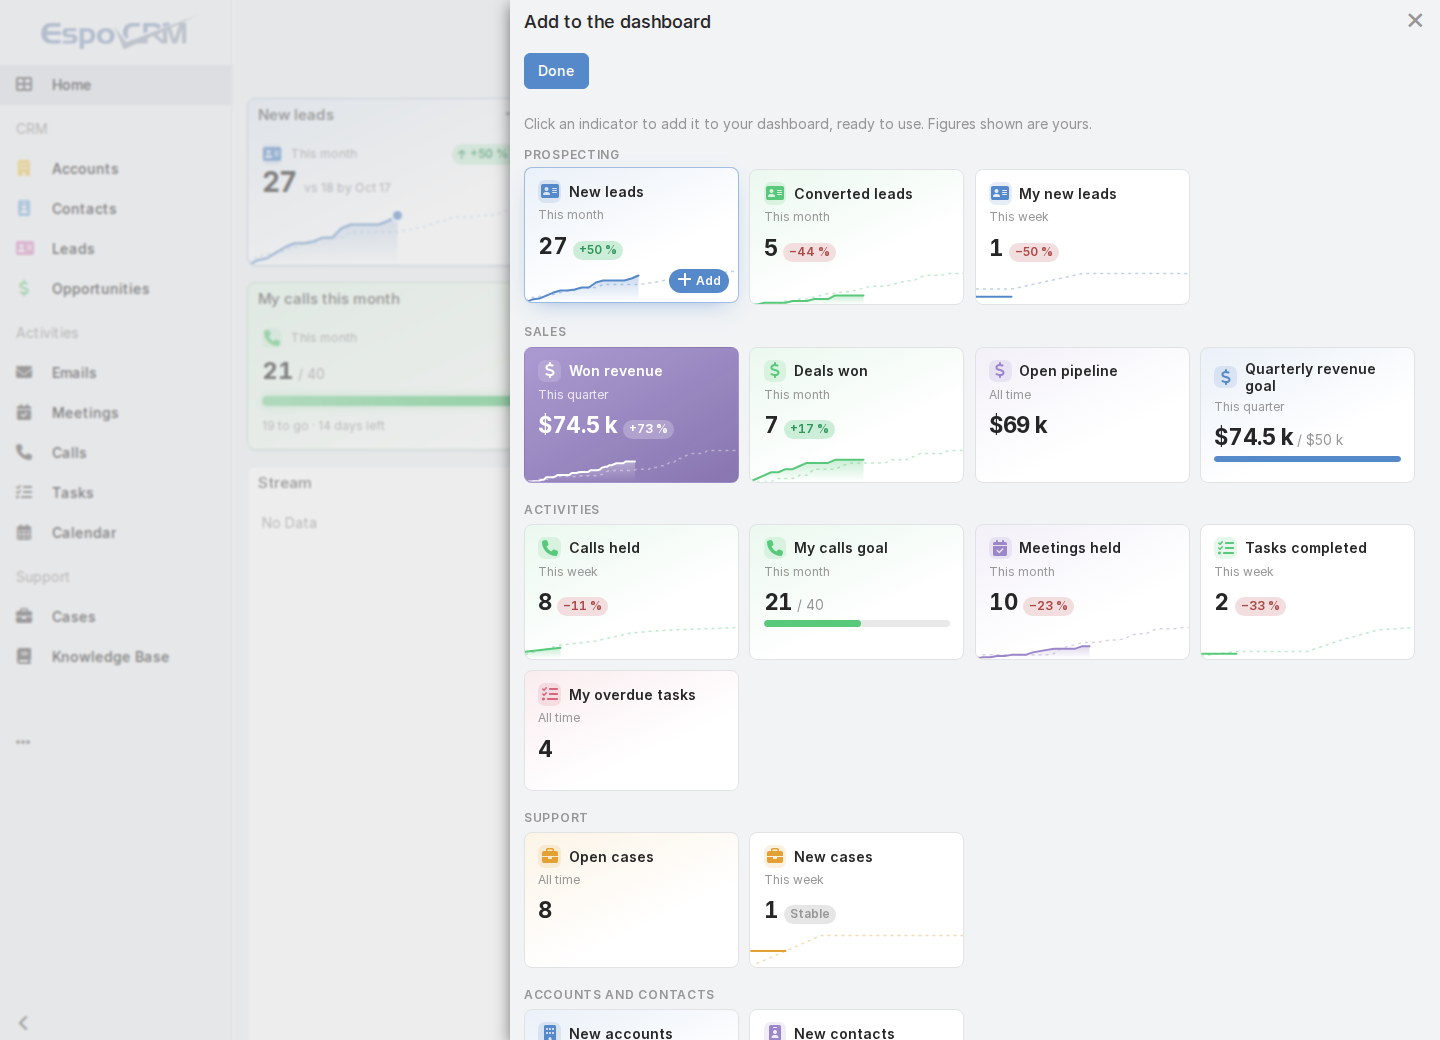
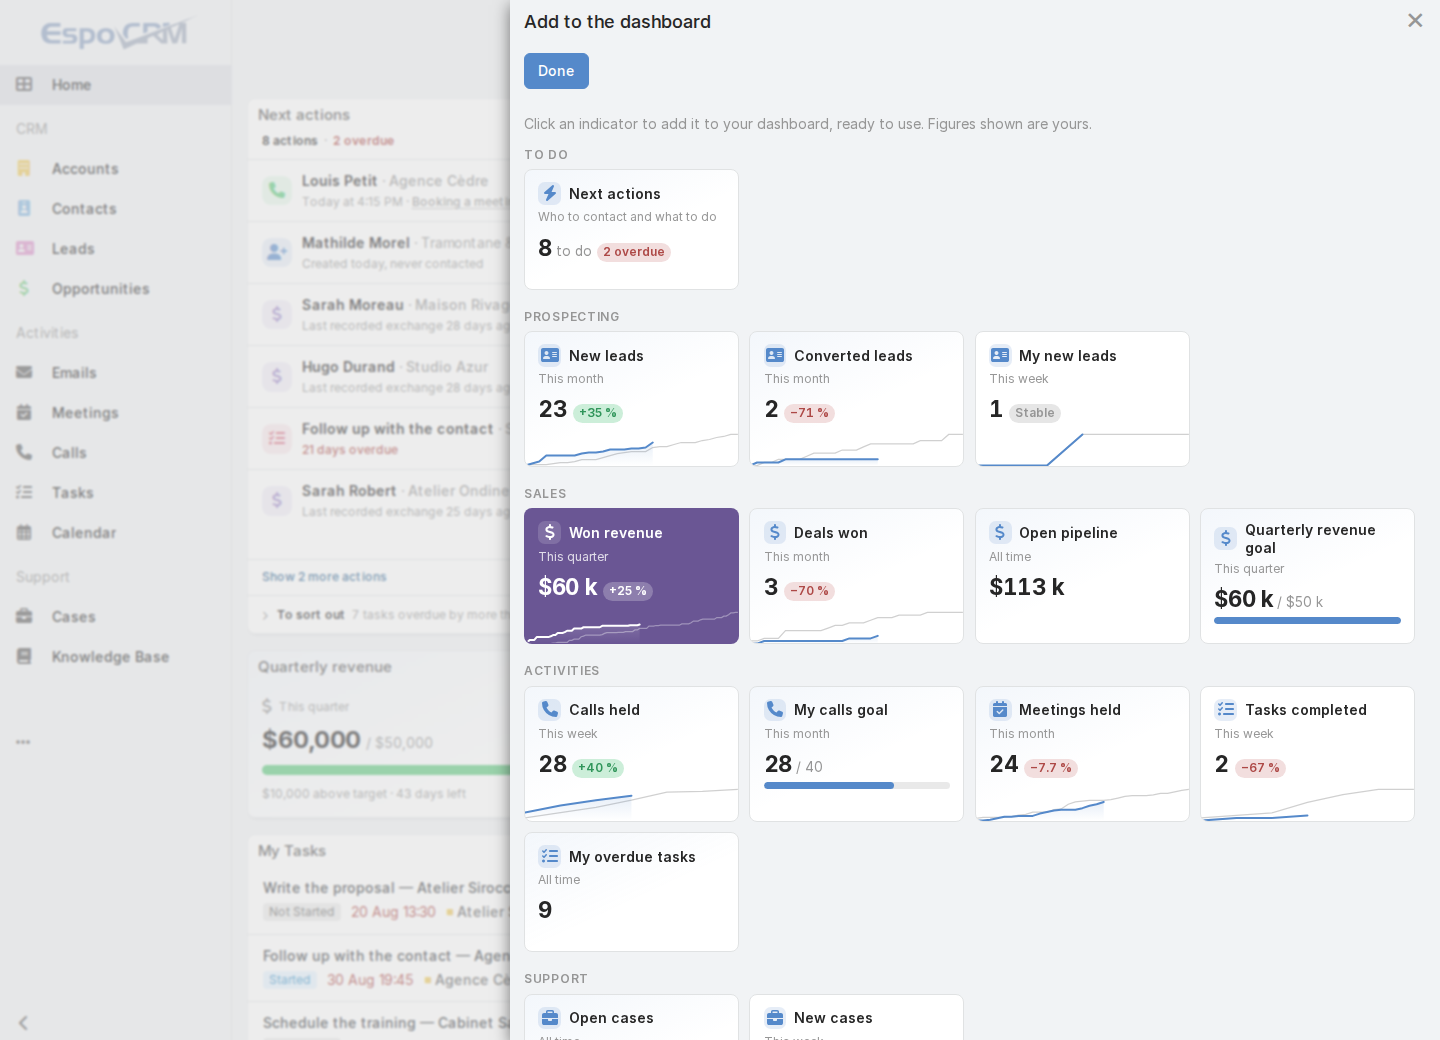
Live Dashlets 1.2.0: a calmer, clearer design
From a design review of the dashlets:

- Goal bars take the status color: green when on track or reached, amber
  when behind.
- Solid tiles cap the lightness of their background, so white text stays
  readable in dark themes.
- The previous period is a thin grey line instead of a dashed one.
- Ready-made indicators and the template share one accent; green, amber
  and red are left to trends and statuses.
- No pulsing dot, a lighter tint, the theme's border, flat solid tiles,
  a lighter area under the curve, the icon without its chip.
- The hover tooltip sits beside the cursor in the curve's area.
- Proportional digits on big figures.

README screenshots and text updated.

diff --git a/src/files/client/custom/modules/live-dashlets/css/live-dashlets.css b/src/files/client/custom/modules/live-dashlets/css/live-dashlets.css
@@ -20,19 +20,18 @@
 /* `body` + three classes: above the themes' `body .panel-default.headered` background. */
 body .dashlet.live-dashlet-panel.live-dashlet-style-soft {
     background:
-        linear-gradient(155deg, color-mix(in srgb, var(--ld-accent) 16%, transparent) 0%, transparent 70%),
+        linear-gradient(155deg, color-mix(in srgb, var(--ld-accent) 7%, transparent) 0%, transparent 55%),
         var(--panel-bg, #fff);
-    border-color: color-mix(in srgb, var(--ld-accent) 30%, var(--default-border-color, #e5e5e5));
 }
 
 body .dashlet.live-dashlet-panel.live-dashlet-style-minimal {
     background: var(--panel-bg, #fff);
 }
 
+/* Dark themes lighten their accents: the lightness is capped so that white text stays readable. */
 body .dashlet.live-dashlet-panel.live-dashlet-style-solid {
-    background:
-        linear-gradient(150deg, rgba(255, 255, 255, .16) 0%, rgba(0, 0, 0, .12) 100%),
-        var(--ld-accent);
+    background: var(--ld-accent);
+    background: oklch(from var(--ld-accent) min(l, .5) c h);
     border-color: transparent;
 }
 
@@ -149,8 +148,15 @@ body .dashlet.live-dashlet-style-solid > .panel-heading .btn.menu-button .fas {
 .live-dashlet-head {
     display: flex;
     align-items: center;
-    gap: .6em;
+    gap: .5em;
     min-width: 0;
+}
+
+/* The title already names the indicator: the icon stays discreet. */
+.live-dashlet-head .live-dashlet-icon {
+    width: auto;
+    color: var(--text-muted-color);
+    background: none;
 }
 
 .live-dashlet-icon {
@@ -185,7 +191,6 @@ body .dashlet.live-dashlet-style-solid > .panel-heading .btn.menu-button .fas {
     font-weight: 700;
     line-height: 1.05;
     letter-spacing: -.02em;
-    font-variant-numeric: tabular-nums;
     white-space: nowrap;
     overflow: hidden;
     text-overflow: ellipsis;
@@ -230,7 +235,7 @@ body .dashlet.live-dashlet-style-solid > .panel-heading .btn.menu-button .fas {
     }
 }
 
-/* Sparkline: cumulative curve of the period, previous period dashed. */
+/* Sparkline: cumulative curve of the period, previous period as a thin grey line. */
 
 .live-dashlet-spark {
     position: relative;
@@ -266,10 +271,9 @@ body .dashlet.live-dashlet-style-solid > .panel-heading .btn.menu-button .fas {
 
 .live-dashlet-spark-previous {
     fill: none;
-    stroke: currentColor;
-    stroke-opacity: .38;
-    stroke-width: 1.5;
-    stroke-dasharray: 3 4;
+    stroke: var(--text-muted-color);
+    stroke-opacity: .45;
+    stroke-width: 1.25;
 }
 
 .live-dashlet-spark-dot {
@@ -280,9 +284,7 @@ body .dashlet.live-dashlet-style-solid > .panel-heading .btn.menu-button .fas {
     border-radius: 50%;
     background-color: currentColor;
     box-shadow: 0 0 0 2px var(--panel-bg, #fff);
-    animation:
-        live-dashlet-fade-in .3s ease 1s both,
-        live-dashlet-pulse 2.4s ease-out 1.3s infinite;
+    animation: live-dashlet-fade-in .3s ease 1s both;
 }
 
 .live-dashlet-style-solid .live-dashlet-spark-dot {
@@ -301,11 +303,6 @@ body .dashlet.live-dashlet-style-solid > .panel-heading .btn.menu-button .fas {
 @keyframes live-dashlet-fade-in {
     from { opacity: 0; transform: scale(.4); }
     to { opacity: 1; transform: scale(1); }
-}
-
-@keyframes live-dashlet-pulse {
-    0% { box-shadow: 0 0 0 2px var(--panel-bg, #fff), 0 0 0 2px color-mix(in srgb, currentColor 45%, transparent); }
-    70%, 100% { box-shadow: 0 0 0 2px var(--panel-bg, #fff), 0 0 0 12px transparent; }
 }
 
 /* Clickable tile: opens the records behind the figure. */
@@ -389,12 +386,13 @@ body .dashlet.live-dashlet-style-solid > .panel-heading .btn.menu-button .fas {
 
 .live-dashlet-spark-hover-dot-previous {
     background-color: var(--panel-bg, #fff);
-    border: 1.5px solid currentColor;
+    border: 1.5px solid var(--text-muted-color);
 }
 
-/* Always dark, so it reads the same on every style and theme. */
+/* Always dark, so it reads the same on every style and theme. Beside the guide, at the top of
+   the curve's area: the figures above stay visible. */
 .live-dashlet-spark-tip {
-    bottom: calc(100% + .25em);
+    top: 4px;
     z-index: 3;
     display: flex;
     flex-direction: column;
@@ -408,15 +406,11 @@ body .dashlet.live-dashlet-style-solid > .panel-heading .btn.menu-button .fas {
     font-variant-numeric: tabular-nums;
     line-height: 1.35;
     white-space: nowrap;
-    transform: translateX(-50%);
+    transform: translateX(10px);
 }
 
-.live-dashlet-spark-tip[data-align="start"] {
-    transform: translateX(-.75em);
-}
-
-.live-dashlet-spark-tip[data-align="end"] {
-    transform: translateX(calc(-100% + .75em));
+.live-dashlet-spark-tip[data-side="left"] {
+    transform: translateX(calc(-100% - 10px));
 }
 
 .live-dashlet-spark-tip-current,
@@ -442,8 +436,8 @@ body .dashlet.live-dashlet-style-solid > .panel-heading .btn.menu-button .fas {
 }
 
 .live-dashlet-spark-tip-previous::before {
-    border-top-style: dashed;
     border-top-width: 1.5px;
+    opacity: .7;
 }
 
 /* Goal. */
@@ -514,10 +508,33 @@ body .dashlet.live-dashlet-style-solid > .panel-heading .btn.menu-button .fas {
     max-width: 100%;
     overflow: hidden;
     border-radius: inherit;
-    background-color: var(--ld-accent-on, var(--ld-accent));
-    background-image: linear-gradient(90deg, rgba(255, 255, 255, .28), rgba(255, 255, 255, 0) 70%);
-    box-shadow: 0 0 10px color-mix(in srgb, var(--ld-accent-on, var(--ld-accent)) 40%, transparent);
+    background-color: var(--ld-goal, var(--ld-accent-on, var(--ld-accent)));
     transition: width .9s cubic-bezier(.22, 1, .36, 1);
+}
+
+/* The bar takes the status color, the track a light step of it. */
+.live-dashlet-goal-ahead,
+.live-dashlet-goal-reached {
+    --ld-goal: var(--brand-success);
+}
+
+.live-dashlet-goal-behind {
+    --ld-goal: var(--brand-warning);
+}
+
+.live-dashlet-goal-ahead .live-dashlet-goal-bar,
+.live-dashlet-goal-reached .live-dashlet-goal-bar,
+.live-dashlet-goal-behind .live-dashlet-goal-bar {
+    background-color: color-mix(in srgb, var(--ld-goal) 16%, transparent);
+}
+
+/* On a solid tile, the status is in its label: the bar stays white. */
+.live-dashlet-style-solid .live-dashlet-goal {
+    --ld-goal: #fff;
+}
+
+.live-dashlet-style-solid .live-dashlet-goal .live-dashlet-goal-bar {
+    background-color: rgba(255, 255, 255, .25);
 }
 
 /* A light sweep on a reached goal. */
@@ -691,8 +708,8 @@ body .dashlet.live-dashlet-style-solid > .panel-heading .btn.menu-button .fas {
 .live-gallery .live-gallery-card.live-dashlet-style-soft {
     background-image: linear-gradient(
         155deg,
-        color-mix(in srgb, var(--ld-accent) 12%, transparent) 0%,
-        transparent 65%
+        color-mix(in srgb, var(--ld-accent) 7%, transparent) 0%,
+        transparent 55%
     );
 }
 
@@ -706,7 +723,7 @@ body .dashlet.live-dashlet-style-solid > .panel-heading .btn.menu-button .fas {
     --ld-accent-on: #fff;
     color: #fff;
     background-color: var(--ld-accent);
-    background-image: linear-gradient(150deg, rgba(255, 255, 255, .16) 0%, rgba(0, 0, 0, .12) 100%);
+    background-color: oklch(from var(--ld-accent) min(l, .5) c h);
     border-color: transparent;
 }
 

diff --git a/src/files/client/custom/modules/live-dashlets/src/helpers/sparkline.js b/src/files/client/custom/modules/live-dashlets/src/helpers/sparkline.js
@@ -61,7 +61,8 @@ export function createSparkline(series, options = {}) {
     gradient.setAttribute('x2', '0');
     gradient.setAttribute('y2', '1');
 
-    [['0', '.32'], ['1', '0']].forEach(([offset, opacity]) => {
+    // A wash, not a block.
+    [['0', '.14'], ['1', '0']].forEach(([offset, opacity]) => {
         const stop = document.createElementNS(SVG_NS, 'stop');
 
         stop.setAttribute('offset', offset);
@@ -176,9 +177,11 @@ function addHover(container, {length, current, previous, x, y, describe}) {
             return line;
         }));
 
-        // Kept inside the tile: anchored left, centred or right depending on the side.
-        tip.dataset.align = left < 25 ? 'start' : (left > 75 ? 'end' : 'center');
+        // Beside the guide, on the side with more room, at the top of the curve's area; raised
+        // only when that area is shorter than the tooltip, so that it stays inside the tile.
+        tip.dataset.side = left > 55 ? 'left' : 'right';
         tip.style.left = left.toFixed(2) + '%';
+        tip.style.top = Math.min(4, container.clientHeight - tip.offsetHeight - 2) + 'px';
 
         container.classList.add('live-dashlet-spark-hovered');
     };

diff --git a/dev/demo-dashboard.php b/dev/demo-dashboard.php
@@ -259,7 +259,7 @@ $averageDeal = [
     'title' => $t('Average deal', 'Affaire moyenne'),
     'metric' => 'avg',
     'valueField' => 'amount',
-    'accentColor' => 'info',
+    'accentColor' => 'primary',
 ];
 $leadPotential = [
     'title' => $t('Potential in open leads', 'Potentiel des leads ouverts'),
@@ -424,7 +424,7 @@ foreach (['currentWeek', 'currentMonth', 'currentQuarter', 'currentYear', 'lastS
     ]);
 }
 
-$newLeads = [...$fromPreset('newLeads'), 'accentColor' => 'success'];
+$newLeads = [...$fromPreset('newLeads'), 'accentColor' => 'primary'];
 
 $tiles[] = $kpi([...$newLeads, 'title' => $t('Vs same point last month', 'Contre le même moment')]);
 $tiles[] = $kpi([...$newLeads, 'title' => $t('Vs whole last month', 'Contre tout le mois dernier'), 'comparison' => 'full']);
@@ -434,8 +434,8 @@ $tiles[] = $kpi([
     'title' => $t('A decrease is good news', 'Une baisse est une bonne nouvelle'),
 ]);
 
-$tiles[] = $kpi([...$wonDeals, 'title' => $t('Count: deals won', 'Nombre : affaires gagnées'), 'metric' => 'count', 'accentColor' => 'info']);
-$tiles[] = $kpi([...$wonDeals, 'title' => $t('Sum: amount won', 'Somme : montant gagné'), 'metric' => 'sum', 'valueField' => 'amount', 'accentColor' => 'info']);
+$tiles[] = $kpi([...$wonDeals, 'title' => $t('Count: deals won', 'Nombre : affaires gagnées'), 'metric' => 'count', 'accentColor' => 'primary']);
+$tiles[] = $kpi([...$wonDeals, 'title' => $t('Sum: amount won', 'Somme : montant gagné'), 'metric' => 'sum', 'valueField' => 'amount', 'accentColor' => 'primary']);
 $tiles[] = $kpi([...$averageDeal, 'title' => $t('Average: deal size', 'Moyenne : affaire')]);
 $tiles[] = $kpi([
     ...$wonDeals,
@@ -446,7 +446,7 @@ $tiles[] = $kpi([
     'period' => 'ever',
     'dateField' => null,
     'comparison' => 'none',
-    'accentColor' => 'info',
+    'accentColor' => 'primary',
 ]);
 
 $flow($periods, $tiles);

diff --git a/src/scripts/AfterInstall.php b/src/scripts/AfterInstall.php
@@ -69,7 +69,7 @@ class AfterInstall
                     'dateField' => 'convertedAt',
                     'comparison' => 'toDate',
                     'tileStyle' => 'soft',
-                    'accentColor' => 'success',
+                    'accentColor' => 'primary',
                 ],
             ],
             [
@@ -98,7 +98,7 @@ class AfterInstall
                     'comparison' => 'none',
                     'lowerIsBetter' => true,
                     'tileStyle' => 'soft',
-                    'accentColor' => 'warning',
+                    'accentColor' => 'primary',
                 ],
             ],
             [
@@ -113,7 +113,7 @@ class AfterInstall
                     'period' => 'currentMonth',
                     'dateField' => 'dateStart',
                     'tileStyle' => 'soft',
-                    'accentColor' => 'success',
+                    'accentColor' => 'primary',
                 ],
             ],
             [

diff --git a/README.md b/README.md
@@ -34,7 +34,7 @@ New tiles line up from left to right after the small tiles at the top of the das
 A large number with the entity icon, the period and the change against the previous period, for example "27 new leads this month, +50 %, vs 18 by Oct 17".
 
 - **A fair comparison.** By default, the previous period is cut at the same point: on November 17, this month is compared with October 1 to 17. You can also compare with the whole previous period, or turn the comparison off.
-- **The curve of the period.** It shows the cumulative value day by day: the current period as a solid line, the previous one dashed. Hover the curve to read both values on a given day.
+- **The curve of the period.** It shows the cumulative value day by day: the current period in color, the previous one as a thin grey line. Hover the curve to read both values on a given day.
 - **When a decrease is good news.** The option of that name turns falling figures green, for things you want to see go down, such as open cases or overdue tasks.
 
 ![Hovering the curve shows the value on that day and the previous period's](docs/screenshots/tooltip.png)
@@ -43,7 +43,7 @@ A large number with the entity icon, the period and the change against the previ
 
 A progress bar toward a target, with:
 - a marker showing where you should be at this point of the period;
-- a status: **On track**, **Behind** or **Reached**;
+- a status: **On track**, **Behind** or **Reached**, which the bar also shows: green when on track or reached, amber when behind;
 - what is left to do and the number of days left.
 
 ### The records behind a figure
@@ -99,7 +99,9 @@ A dashlet that turns the dashboard into a to-do list for the day: who to contact
 
 ### Three styles
 
-**Soft** (the default) tints the whole tile with its color. **Minimal** stays neutral. **Solid** fills the tile with color: keep it for one headline figure per dashboard.
+**Soft** (the default) gives the tile a light tint of its color. **Minimal** stays neutral. **Solid** fills the tile with color: keep it for one headline figure per dashboard.
+
+The ready-made indicators share one color, so that green, amber and red keep their meaning: they are left to trends and statuses. Any of the six theme colors can still be chosen in a tile's options.
 
 ![Soft, Minimal and Solid](docs/screenshots/styles.png)
 
@@ -121,7 +123,7 @@ Adjust the targets, then deploy it to the users or teams you choose. Nothing is 
 
 ### Details that matter
 
-- **Animations.** Figures count up, curves draw themselves, bars fill in, and a reached goal gets a light sweep. Nothing moves when the system asks for reduced motion.
+- **Animations.** Figures count up, curves draw themselves, bars fill in, and a reached goal gets a light sweep. Nothing loops. Nothing moves when the system asks for reduced motion.
 - **Time zones and calendars.** Periods follow each user's time zone and first day of the week, and the fiscal year setting.
 - **Currencies.** Amounts are added up in the default currency, like EspoCRM's own charts, and displayed with the system's currency format and separators.
 - **Languages.** English and French.
@@ -135,7 +137,7 @@ Adjust the targets, then deploy it to the users or teams you choose. Nothing is 
 
 ## Installation
 
-1. Download `live-dashlets-1.1.1.zip` from the [latest release](../../releases/latest).
+1. Download `live-dashlets-1.2.0.zip` from the [latest release](../../releases/latest).
 2. In EspoCRM, go to **Administration → Extensions**, upload the ZIP and click **Install**.
 3. Optional: in **Administration → Dashboard Templates**, open **Live dashboard**, adjust the goal targets and deploy it.
 
@@ -164,7 +166,7 @@ The gallery is defined in metadata, so you can add company-specific indicators w
                 "dateField": "closeDate",
                 "period": "currentQuarter",
                 "comparison": "toDate",
-                "accentColor": "success",
+                "accentColor": "primary",
                 "tileStyle": "soft"
             }
         }
